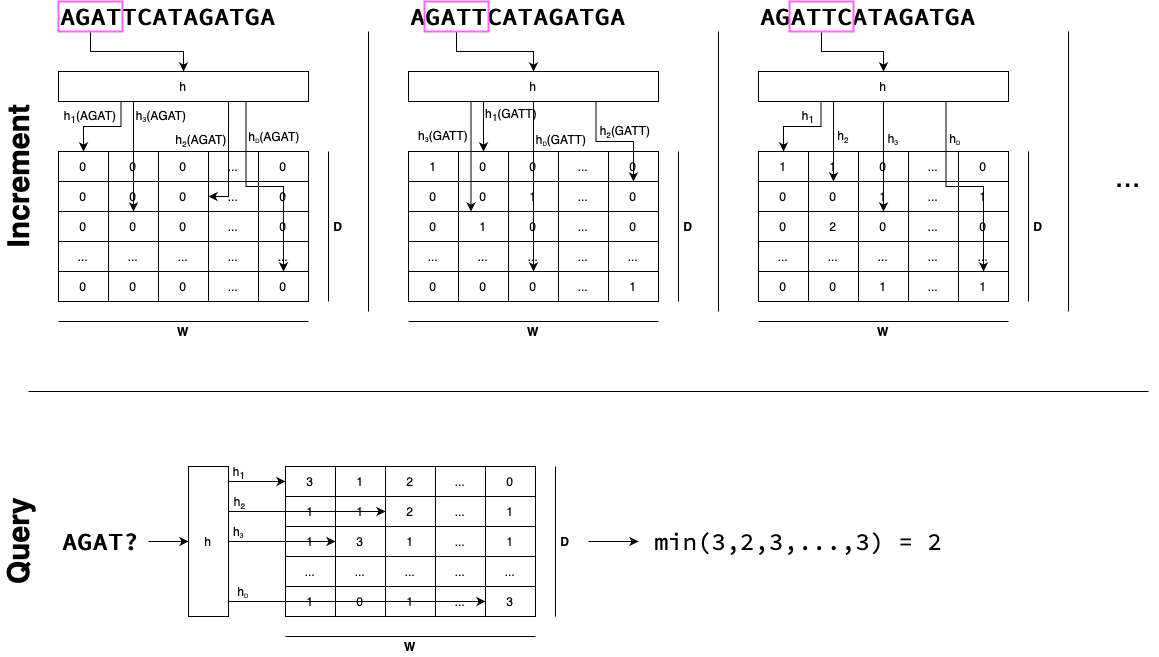
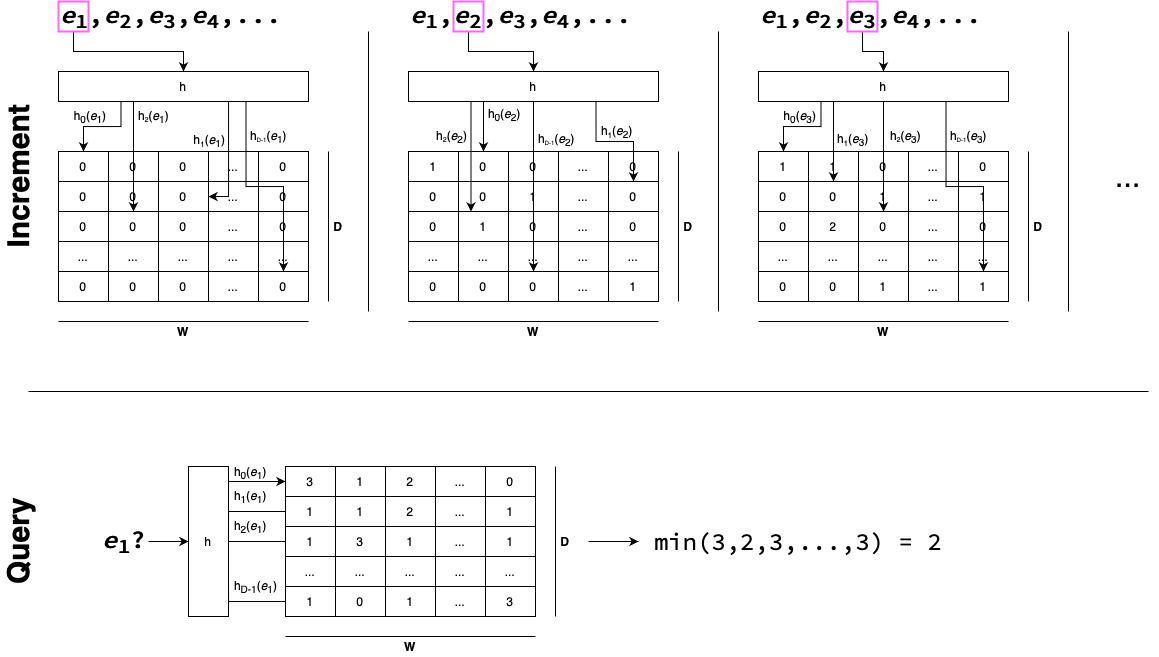
Revision of sections 3.1 & 3.2

diff --git a/paper/monografia/chapter3.tex b/paper/monografia/chapter3.tex
@@ -1,4 +1,4 @@
-\chapter{Fundamentação teórica e metodologia}\paguso{Chapter title in English}
+\chapter{Methods}
 
 \paguso{Nesta primeira revisão, eu editei algumas coisas diretamente mas deixei várias outras anotadas pra vc perceber o espírito da coisa. A ideia básica é keep it simple. Quando vc for revisar, releia as frases e veja que palavras são desnecessárias pra compreensão do texto. Se remover uma palavra ou expressão não muda o sentido do texto nem prejudica sua compreensão, não hesite: retire-as. Prefira também orações na voz ativa e na ordem direta sujeito-predicado-complemento.}
 
@@ -14,11 +14,11 @@
 %   - Query edge / star 
 % - Space-efficient representations - that's what we propose
 
-The \keyterm{\dBG of order $k$} of a string \strdef{x}{n}, $G(X;k)=(V,E)$, is defined as the directed graph whose nodes $V$ represent all distinct \kmer{s} of \strname{X}, and such that any two nodes representing $(k-1)$-overlapping \kmers are connected by an edge labeled by the last character of the second \kmer. For example if $k=3$ and $X$ contains the substring \chr{ACGT} then the consecutive triplets \chr{ACG} and \chr{CGT} will originate the edge $\chr{ACG}\stackrel{\chr{C}}{\longrightarrow}\chr{CGT}$. Hence the edges $E$ represent all distinct $(k+1)$-mers of $X$. 
+The \keyterm{\dBG of order $k$} of a string \strdef{x}{n}, $G(X;k)=(V,E)$, is defined as the directed graph whose nodes $V$ represent all distinct \kmer{s} of \strname{X} (i.e. substrings of \strname{X} with length $k$), and such that any two nodes representing $(k-1)$-overlapping \kmers are connected by an edge labeled by the last character of the second \kmer. For example if $k=3$ and $X$ contains the substring \chr{ACGT} then the consecutive triplets \chr{ACG} and \chr{CGT} will originate the edge $\chr{ACG}\stackrel{\chr{C}}{\longrightarrow}\chr{CGT}$. Hence the edges $E$ represent all distinct $(k+1)$-mers of $X$. 
 % That is, given two nodes on the graph, they each represent a distinct sequence of symbols $S_1$ and $S_2$, and there is an edge between them if and only if the tail of $S_1$ is the head of $S_2$.
 This definition generalizes naturally to a \emph{set of strings} \strsetname{X} by having $G$ to represent all distinct \kmer{s} of all strings in \strsetname{X}.
 
-\change[prefer simple direct forms]{Within the context of}{In} genome sequencing, \dB graphs are used in the assembly process to represent the distinct \kmers in a set \readset of randomly distributed fragments of the source DNA \strname{S}, called \keyterm{reads}, generated by the sequencing machines. \change{In the ideal case}{Ideally}, \strname{S} could be obtained from an Eulerian traversal of $G(\readset, k)$ \cite{}. Unfortunately however, due to sequencing errors and repeats, such a straightforward approach is not feasible, but the \dBG can still be used to produce a collection of partial assemblies, called \keyterm{contigs}, which can then be further combined to form the original genome. Figure~\ref{fig:dbgexample} presents an example of the \dBG \change{within}{in} this context.
+In genome sequencing, \dB graphs are used in the assembly process to represent the distinct \kmers in a set \readset of randomly distributed fragments of the source DNA \strname{S}, called \keyterm{reads}, generated by the sequencing machines. Ideally, \strname{S} could be obtained from an Eulerian traversal of $G(\readset, k)$ \cite{Pevzner2001}. Unfortunately however, due to sequencing errors and repeats, such a straightforward approach is not feasible, but the \dBG can still be used to produce a collection of partial assemblies, called \keyterm{contigs}, which can then be further combined to form the original genome. Figure~\ref{fig:dbgexample} presents an example of the \dBG in this context.
 
 \begin{figure}[htbp]
 	\begin{center}
@@ -27,78 +27,86 @@ This definition generalizes naturally to a \emph{set of strings} \strsetname{X} 
 	\caption{Example of a \dBG. $k=4$}\label{fig:dbgexample}
 \end{figure}
 
-
-\subsection{\change{Representing a \dBG}{\dBG representation}}
-
-\asq{Não é mais interessante manter a discussão sobre lower boundaries no capítulo de estado da arte?}
-
-\remove[verbiage]{Due to its nature, a}{A} \dBG can be represented either by its set of nodes (\kmers) or edges ($(k+1)$-mers) equivalently, as one can be derived from the other.
-As such, a structure that can answer queries about the presence of a given node on the graph is enough to
-represent the graph. \remove[unnecessary info?]{ Conversely, the same can be achieved with a structure that can answer the same kind of query but about edges. Such structures are called edge-centric, as opposed to the node-centric structures that we consider in this work. Both versions are trivially equivalent, however.} \remove{In this regard, }Conway\&Bromage showed that the lower bound on the space required to
-\emph{exactly} represent a \dBG \remove{exists, and} is $\Omega(n \log n)$ bits, \change[always prefer simpler forms]{for $n$ being the number of distinct \kmers present in the graph}{where $n$ is the number of nodes}\remove[isn't this obvious?]{,
-and $4^k > n$}\cite{Conway2011}.
-
-In order to further improve space-efficiency, new \remove{forms of} representations were created that trade deterministic exactness for a probabilistic approach. For instance, the so-called \keyterm{Navigational Data Structures} (NDS) have some probability of giving an erroneous answer to a membership query, 
-but can still be used to navigate the graph \cite{Chikhi2014}. This \change{definition is useful}{is} due to the fact that a \dBG is usually not queried for membership of \change{randomly selected}{random} nodes, but rather \remove{only} potential neighbors of \change{a known member node is queried}{nodes already known to be in the graph}. In the same paper where they introduce
-the idea of NDS \cite{Chikhi2014}\paguso{correct?}, Chikhi \emph{et al.} also present a lower bound for the number of bits needed to represent such a structure as $3.24n$.
-In sections \ref{sec:debruijncountmin} and \ref{sec:debruijnhashtable} we will introduce two new NDS's. \asq{É necessário reiterar
-os objetivos das duas estrutas aqui, visto que isso já seria feito na introdução e é feito nas próprias sessões dedicadas a cada estrutura?}\paguso{até o momento, acho que não.}
-
 \subsection{Reverse Complements}
 
-\paguso{Esta parte tá meio fora de lugar. Acho que o melhor seria mover a explicação sobre \dBG usando CR para as seção inicial, logo após a figura~\ref{fig:dbgexample}.}
-\change{One individuality of the genome sequencing context}{One difficulty of using \dBG{s} to represent DNA data} is the presence of \keyterm{reverse complements}. When generating sequencing reads, \change[prefer active voice]{a sequence of DNA can be read both}{the machine reads either of the two complementary strands of a fragment of the input DNA}. That is, the output read may correspond to the sequence \strname{S} in the forward (5'-3') direction, or its reverse complement \strname{\overline{S}} in the backward (3'-5') direction, with
+One difficulty of using \dBG to represent DNA data is the presence of \keyterm{reverse complements}. When generating sequencing reads, the machine reads either of the two complementary strands of a fragment of the input DNA. That is, the output read may correspond to the sequence \strname{S} in the forward (5'-3') direction, or its reverse complement \strname{\overline{S}} in the backward (3'-5') direction, with
 \strname{\overline{S}} being obtained from \strname{S} by swapping each base with its Watson-Crick complement
 ($\A \leftrightarrow \T$, $\C \leftrightarrow \G$) and then reversing the string, and vice versa. 
 
 \paguso{Aqui vc já está apresentando sua representação ou discutindo representações em geral? Eu entendo que vc ainda está introduzindo os conceitos.}
-As in \cite{Conway2011}, this will be treated by processing
-all reads in both directions, without, however, merging nodes representing reverse complements. As noted by Conway \& Bromage: ``This
-makes the graph symmetric; a forward traversal corresponds to a backwards traversal on the reverse complement path, and vice versa.``
-\cite{Conway2011}
 
+To deal with reverse complements, reads are processed twice\asq{can be made active? we doesn't apply as we're talking in abstract}, once in each direction. Nodes representing \kmer{s} that are reverse complements of each other can then be merged, with edges made bi-directed. Alternatively, those nodes can be kept distinct, resulting in a symmetric graph in which, as noted by Conway \& Bromage, ``a forward traversal corresponds to the backwards traversal on the reverse complement path, and vice versa.``\cite{Conway2011}
+% As in \cite{Conway2011}, this will be treated by processing
+% all reads in both directions, without, however, merging nodes representing reverse complements. As noted by Conway \& Bromage: ``This
+% makes the graph symmetric; a forward traversal corresponds to a backwards traversal on the reverse complement path, and vice versa.``
+% \cite{Conway2011}
 
-\paguso{Acho que havíamos falado que iríamos introduzir top-down, adiantando o que ia ter na representação, e que operações seriam implementadas, antes de partir para a descrição de cada parte individualmente em detalhes}
+\subsection{\dBG representation}
+
+A \dBG can be represented either by its set of nodes (\kmers) or edges ($(k+1)$-mers) equivalently, as one can be derived from the other. Therefore, a structure that can determine if a given node $x$ is a member of $G$ can represent the \dBG. Conway \& Bromage showed that the lower bound on the space required to \emph{exactly} represent these \keyterm{membership data structures} is $\Omega(n \log n)$, with $n=|V(G)|$ \cite{Conway2011}.
+
+In order to further improve space-efficiency, new representations were created that trade deterministic exactness for a probabilistic approach. Pel \emph{et al.} showed that a probabilistic representation based on a Bloom Filter (BF) could accuratly represent a \dBG with as little as 4 bits per \kmer \cite{Pell2012}. \toconsider{They also showed that false positive rates could be as high as $15\%$ before false connectivity began to dominate the graph structure.}
+
+Due to the fact that a \dBG is not queried for membership of random nodes, but rather potential neighbors of nodes already known to be in the graph, two groups independently introduced a new form of representation for the \dBG \cite{Chikhi2013}\cite{Bowe2012}, which Chikhi \emph{et al.} refer to as a \keyterm{Navigational Data Structure} (NDS) \cite{Chikhi2014}. Instead of offering a membership query, NDS's offer a neighborhood query. \toconsider{In this way, it is possible to accomplish an exact traversal of the graph starting from a subset of known member nodes.} The lower bound on the space required to exactly represent a \dBG with an NDS is $3.24n$ \cite{Chikhi2014}. 
+
+% A \dBG can be represented either by its set of nodes (\kmers) or edges ($(k+1)$-mers) equivalently, as one can be derived from the other.
+% As such, a structure that can answer queries about the presence of a given node on the graph is enough to
+% represent the graph. Conway\&Bromage showed that the lower bound on the space required to
+% \emph{exactly} represent a \dBG is $\Omega(n \log n)$ bits, where $n$ is the number of nodes\remove[isn't this obvious?]{,
+% and $4^k > n$}\cite{Conway2011}.
+
+% \asq{Isso precisa ser reescrito: NDSs não são necessariamente representações probabilisticas. Elas apenas substituem a consulta de presença de um nó pela consulta de vizinhança.}
+
+% In order to further improve space-efficiency, new representations were created that trade deterministic exactness for a probabilistic approach. For instance, the so-called \keyterm{Navigational Data Structures} (NDS) have some probability of giving an erroneous answer to a membership query, 
+% but can still be used to navigate the graph \cite{Chikhi2014}. This \change{definition is useful}{is} due to the fact that a \dBG is usually not queried for membership of \change{randomly selected}{random} nodes, but rather \remove{only} potential neighbors of \change{a known member node is queried}{nodes already known to be in the graph}. In the same paper where they introduce
+% the idea of NDS \cite{Chikhi2014}\paguso{correct?}\asq{Esse artigo de Chikhi \emph{et al.} é a introdução e formalização do conceito de NDSs em oposição às Membership Data Structures. Em segunda leitura, porém, categorizar nossas estruturas como NDSs é incorreto porque NDSs devem dar respostas exatas para consultas de vizinhança, o que nós não garantimos.}, Chikhi \emph{et al.} also present a lower bound for the number of bits needed to represent such a structure as $3.24n$.
+% In sections \ref{sec:debruijncountmin} and \ref{sec:debruijnhashtable} we will introduce two new NDS's. \asq{É necessário reiterar
+% os objetivos das duas estrutas aqui, visto que isso já seria feito na introdução e é feito nas próprias sessões dedicadas a cada estrutura?}\paguso{até o momento, acho que não.}
+
+\subsubsection{Operations}
+
+Chikhi \emph{et al.} \cite{Chikhi2019} present the following set of operations common to many data structures for representing a \dBG \asq{Na verdade, eles falam especificamente de "set of \kmer{s}". Sendo que, no final das contas, um \dBG não deixa de ser um "set of \kmer{s}"}.
+
+\begin{itemize}
+  \item \emph{Construction} of the data structure
+  \item \emph{Insertion} of a new \kmer \asq{Tanto esse quanto o próximo eles notam se tratar de uma particularidade de um \dBG dinamico}
+  \item \emph{Deletion} of an existing \kmer.
+  \item \emph{Membership Query}: Given a \kmer $x$, returns true iff $x \in G$
+  \item \emph{Forward neighbor query}: Given a \kmer $x$ and a base $b$, returns true iff $x[1:k-1] \cdot b \in G$.
+  \item \emph{Backward neighbor query}: Given a \kmer $x$ and a base $b$, return true iff $b \cdot x[0:k-2] \in G$.
+\end{itemize}
+
+The consctruction and membership query operations are the minimum necessary, as the other operations can be derived from the two. \toconsider{An NDS, as defined in \cite{Chikhi2014}, can implement its neighborhood query by using the forward and backward neighbor queries}.
 
 \section{\cm}
 \label{sec:countmin}
 
-The \cm sketch \remove{, first introduced in} \cite{Cormode2005} is a \change[acho que quase ninguém usa mais esses hífens]{sub-linear}{sublinear} data structure \remove{intended to allow} for event frequency mapping.
-\change{
-In this way, it must allow for the query of the frequency of a given event, as well as the update of that frequency, through the
-\emph{query} and \emph{update} operations.
-}{
+The \cm sketch \cite{Cormode2005} is a sublinear data structure for event frequency mapping.
 It offers two basic operations
 \begin{compactenum}
 \item $update(e, f)$, and
 \item $query(e)$,
 \end{compactenum}
-respectively for informing the occurrence of an event $e$ with frequency $f$, and for obtaining an estimate of the accumulated frequency of event $e$ up to that point.}
+respectively for informing the occurrence of an event $e$ with frequency $f$, and for obtaining an estimate of the accumulated frequency of event $e$ up to that point.
 
-The sketch is composed of a \change{$W$-wide, $D$-deep matrix $C$ of counters.}{$D\times W$ matrix of counters $C$,} \change{With each row in this
-matrix is associated a hash function that map the possible events to the $W$ positions in that row.}{and a set of $D$ pairwise-independent hash functions $h_0\ldots h_{D-1}$, such that each $h_i$ maps an event to one of the $W$ cells in row $i$.} \remove{All $D$\/ hash functions
-must be pair-wise independent.}
+The sketch is composed of a $D\times W$ matrix of counters $C$, and a set of $D$ pairwise-independent hash functions $h_0\ldots h_{D-1}$, such that each $h_i$ maps an event to one of the $W$ cells in row $i$.
 
 
-Updating \change{the frequency of a given}{an} event is done by passing it through the hash functions for each row, and then \change{updating}{incrementing} the counters in
-the \change{resulting}{mapped} positions $h_i(e)$ accordingly. 
-\change{In this work we take interest in a}{We consider the} simpler case where we only report individual event occurrences, so that counters are always incremented by one.
+Updating an event is done by passing it through the hash functions for each row, and then incrementing the counters in
+the mapped positions $h_i(e)$ accordingly. 
+We consider the simpler case where we only report individual event occurrences, so that counters are always incremented by one.
 
-Querying the structure \change[consists of=to be made up of; consists in=is essentially]{consists of, similarly,}{consists in} retrieving the value of the counters associated with the key event in each row,  and then returning
+Querying the structure consists in retrieving the value of the counters associated with the key event in each row,  and then returning
 the minimum value among them, that is $\min\{C[i][h_i(e)]]; i=0\ldots D-1$\}.
-
-\asq{É interessante colocar os algoritmos do \cm mais formalmente ou só uma descrição "abstrata" é suficiente?}
-\paguso{Acho que assim chega.}
 
 
 Figure \ref{fig:countminexample} presents a visualization of the \cm sketch.
-\paguso{Você ainda não fez o link do uso do CountMin para representar os kmers das sequências, então ainda não é apropriado mostrar um exemplo de CountMin específico para kmers.}
 
 \begin{figure}[htbp]
 	\begin{center}
     \includegraphics[width=0.8\textwidth]{figures/cm-example}
 	\end{center}
-	\caption{Example of a \cm sketch being used to count \kmers. $k=4$}\label{fig:countminexample}
+	\caption{Example of a \cm sketch}\label{fig:countminexample}
 \end{figure}
 
 \subsection{As a representation for a \dBG}

diff --git a/paper/monografia/revision.tex b/paper/monografia/revision.tex
@@ -1,1 +1,1 @@
-\newcommand{\Revision}{a505b68}
+\newcommand{\Revision}{689a401}
